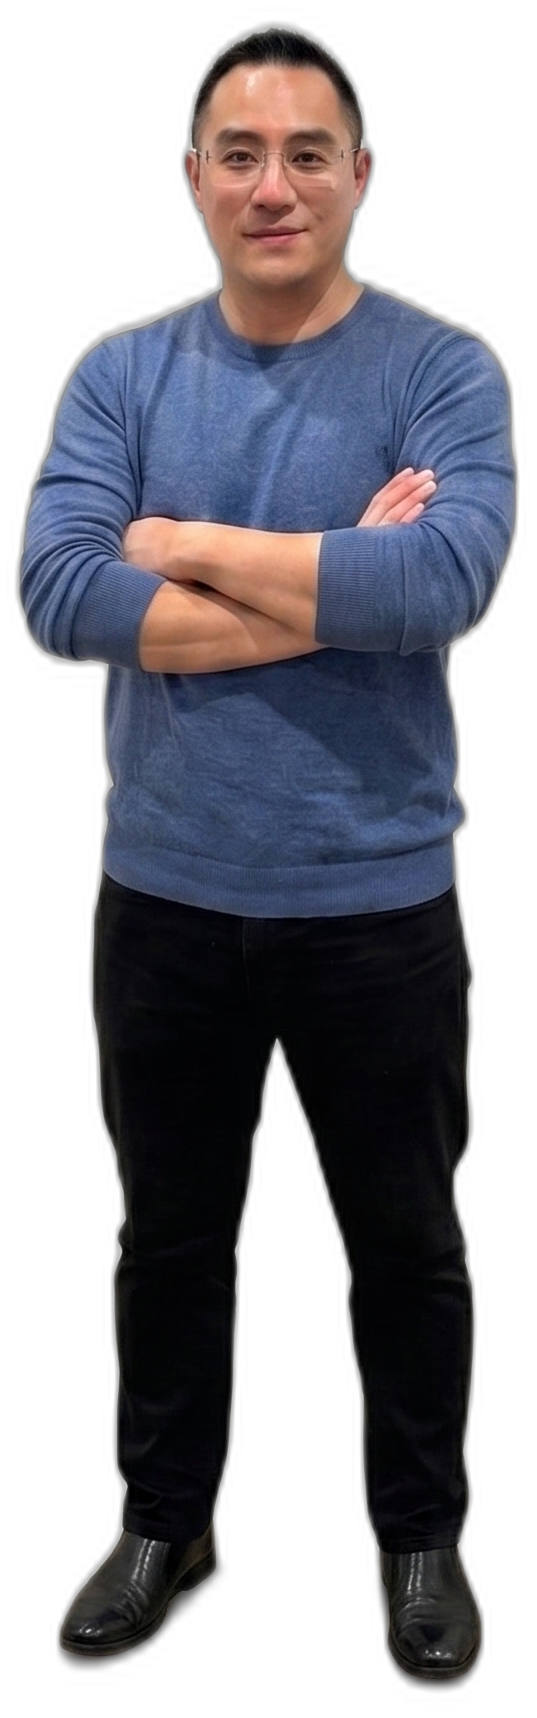
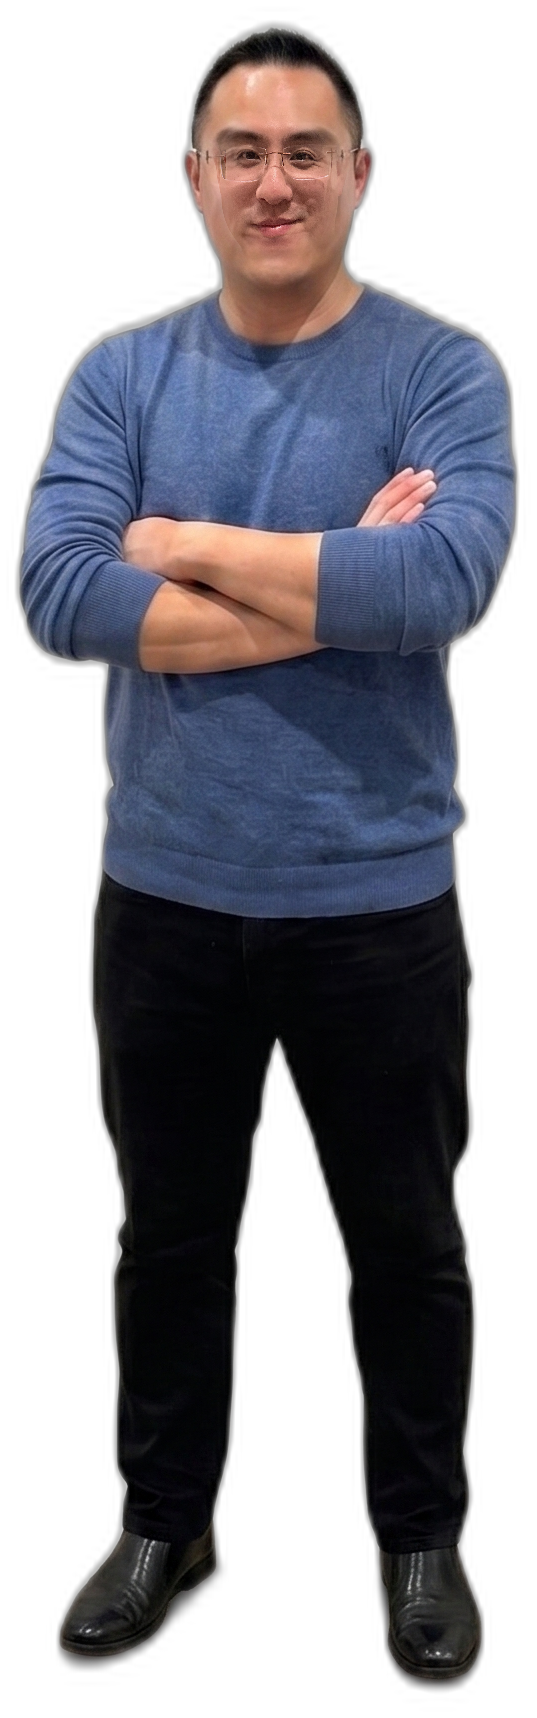
New H1, talking-head LSDiet card video, real face on portrait
- Hero H1: "Building things I wish already existed"
- LSDiet hero card now loops a 3.4s crop of the segment where Oscar's
  webcam window is zoomed in and he's talking (new lsdiet-card.mp4;
  the full video in the LSDiet section is unchanged)
- Portrait face replaced with Oscar's real face from a recent photo,
  aligned by eye landmarks and colour-matched — hair, outline, and
  body untouched

Changed region(s): [[0.3873, 0.0617, 0.6257, 0.1542]]

diff --git a/src/components/Hero.tsx b/src/components/Hero.tsx
@@ -39,7 +39,7 @@ const CARDS: {
     href: '#lsdiet',
     tag: 'Free training',
     accent: 'emerald',
-    media: { type: 'video', src: '/media/lsdiet-hero.mp4' },
+    media: { type: 'video', src: '/media/lsdiet-card.mp4' },
   },
   {
     title: 'Anti-Time-Theft Logger',
@@ -257,7 +257,7 @@ export default function Hero() {
           Health · Security · Music · Identity
         </p>
         <h1 className="text-4xl md:text-5xl font-black tracking-tighter text-[#0F172A]">
-          I built these to solve different problems.
+          Building things I wish already existed
         </h1>
       </div>
 